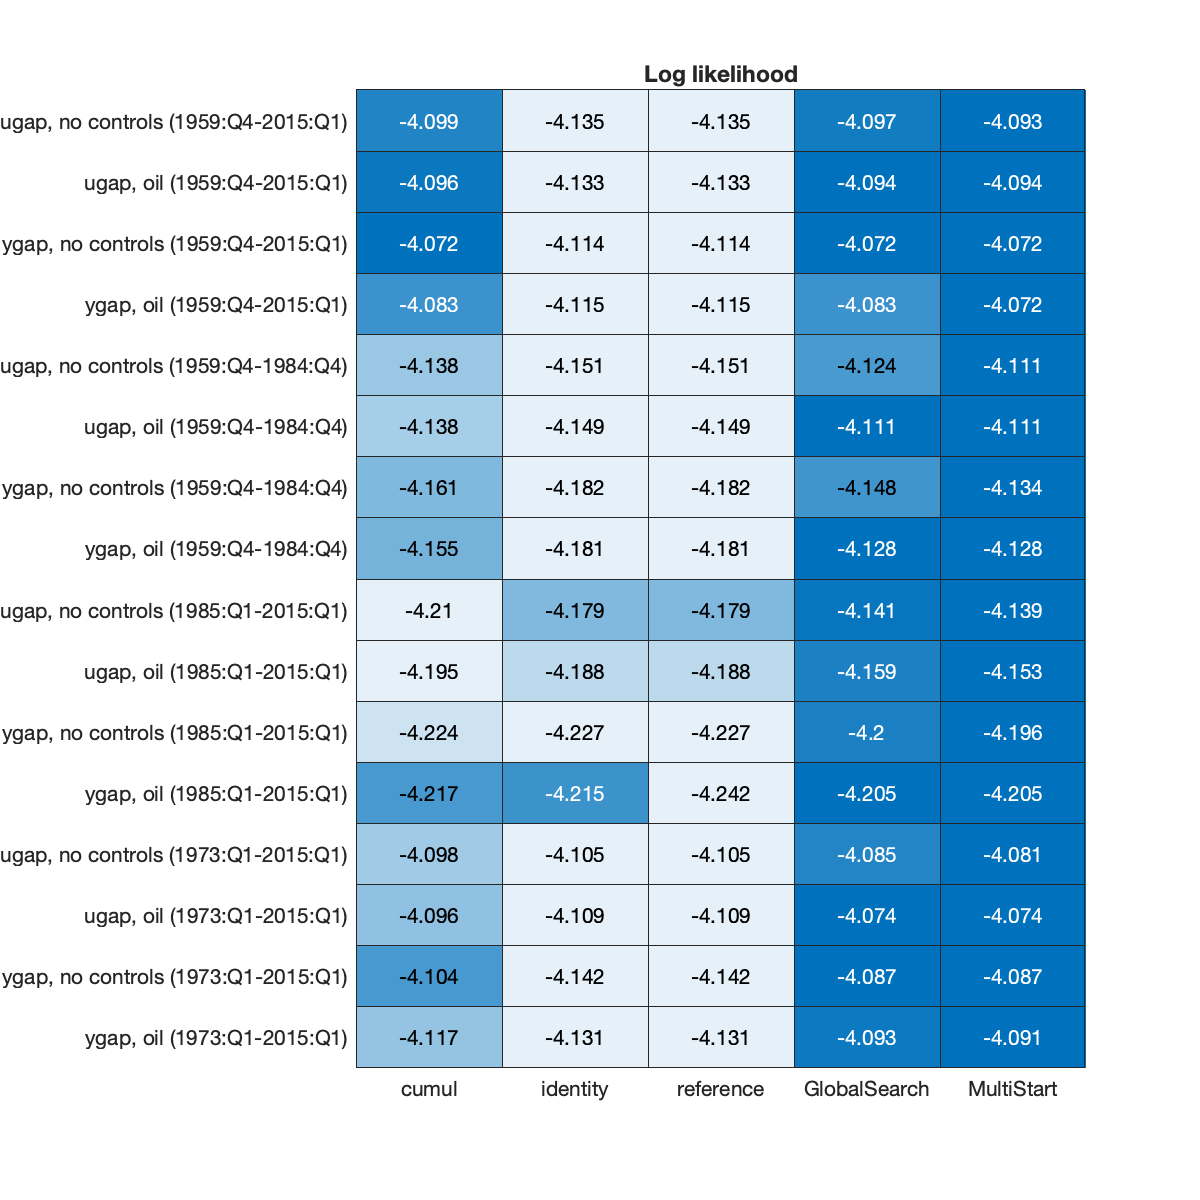
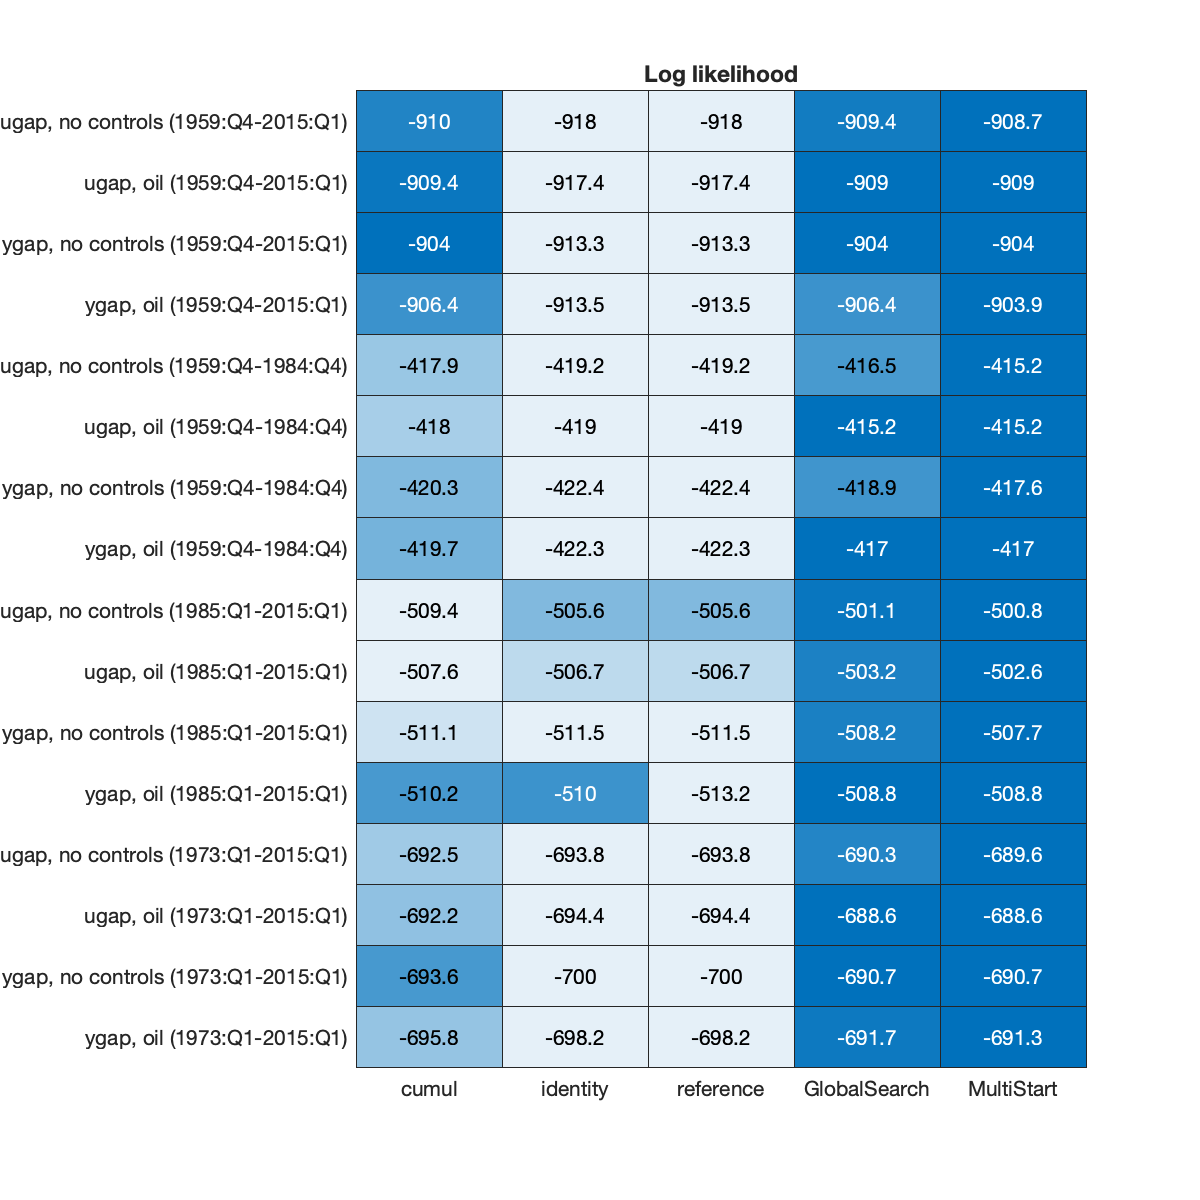
Update units on loglik

diff --git a/empirical/mainEmpirical.m b/empirical/mainEmpirical.m
@@ -194,6 +194,7 @@ for jInit = 1:length(initSettingVec)
                 
             end
             
+            
             if strcmp(initSetting, 'identity')
                 [teststats, teststats_boot, A, c, shocks, ...
                     H_estim(:,:,1),         H_estim(:,:,2),...
@@ -460,12 +461,14 @@ for jSpec = 1:nSpec
         pathFigs = ['figures/initSetting=' initSettingVec{jInit} '_'];
         Results  = load([pathFigs 'Results.mat']);
         Spec     = Results.Spec;
-
+        T        = height(Spec(jSpec).dfEst) - Spec(jSpec).p;  % Sample length
+        
         % Store C matrices
         C_pml = Spec(jSpec).C_estim(:,:,1);
         CRef  = Spec(jSpec).CRef; 
         
-        loglik_mat(jSpec, jInit) = Spec(jSpec).loglik;        
+        loglik_mat(jSpec, jInit) = Spec(jSpec).loglik*T;  % Scaled for comparability
+
         aad_mat(jSpec, jInit)    = mean(abs(CRef(:) - C_pml(:)));
         
     end

diff --git a/functions/var_test_indep_emp.m b/functions/var_test_indep_emp.m
@@ -58,7 +58,7 @@ corr_shocks_sq = corr(shocks.^2); % Correlation matrix for squared shocks
 teststat       = sqrt((sum(corr_shocks_sq(:).^2)-n)/(n^2-n)); % Root mean squared off-diagonal correlation
 
 
-if ~isempty(Z)  % Don't run bootstrap if there eis an exogenous regressor in the VAR
+if ~isempty(Z)  % Don't run bootstrap if there is an exogenous regressor in the VAR
     teststats_boot = NaN;  
 else
     %%  Bootstrap
